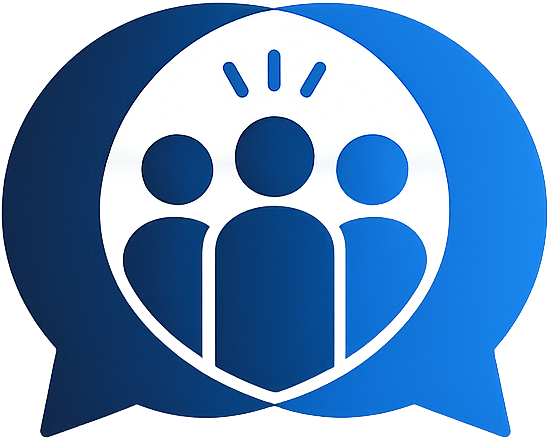
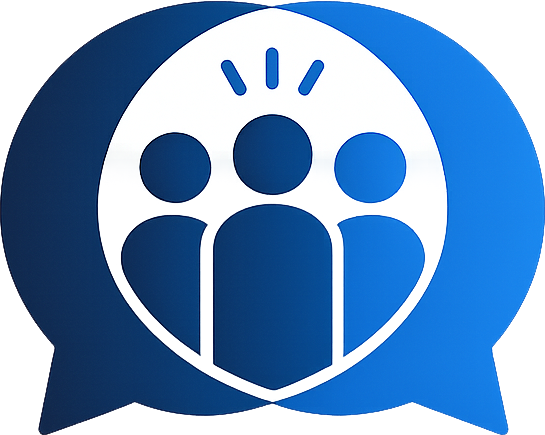
Update project

diff --git a/laravel/database/seeders/GroupSeeder.php b/laravel/database/seeders/GroupSeeder.php
@@ -1,0 +1,48 @@
+<?php
+
+namespace Database\Seeders;
+
+use Illuminate\Database\Seeder;
+use Illuminate\Support\Facades\DB;
+use App\Models\Group;
+use App\Models\User;
+
+class GroupSeeder extends Seeder
+{
+    public function run(): void
+    {
+        $lecturer = User::where('email', '[email redacted]')->first();
+        $student  = User::where('email', '[email redacted]')->first();
+
+        if (!$lecturer) {
+            $this->command->warn('Run AuthenticationSeeder first.');
+            return;
+        }
+
+        $groups = [
+            ['name' => 'CS101 — Intro to Programming',   'slug' => 'cs101-intro-programming',   'description' => 'First-year programming fundamentals.'],
+            ['name' => 'CS201 — Data Structures',         'slug' => 'cs201-data-structures',      'description' => 'Arrays, linked lists, trees and graphs.'],
+            ['name' => 'CS301 — Software Engineering',    'slug' => 'cs301-software-engineering', 'description' => 'SDLC, design patterns and agile methods.'],
+            ['name' => 'CS401 — Database Systems',        'slug' => 'cs401-database-systems',     'description' => 'Relational databases, SQL and NoSQL.'],
+        ];
+
+        foreach ($groups as $data) {
+            $group = Group::firstOrCreate(
+                ['slug' => $data['slug']],
+                array_merge($data, ['created_by' => $lecturer->id])
+            );
+
+            // Attach lecturer as admin member
+            if (!$group->members()->where('users.id', $lecturer->id)->exists()) {
+                $group->members()->attach($lecturer->id, ['role' => 'admin']);
+            }
+
+            // Attach student as member
+            if ($student && !$group->members()->where('users.id', $student->id)->exists()) {
+                $group->members()->attach($student->id, ['role' => 'member']);
+            }
+        }
+
+        $this->command->info('✅ Groups seeded: ' . count($groups) . ' groups created.');
+    }
+}

diff --git a/laravel/database/migrations/2026_07_10_000000_add_created_by_to_groups_table.php b/laravel/database/migrations/2026_07_10_000000_add_created_by_to_groups_table.php
@@ -1,0 +1,29 @@
+<?php
+
+use Illuminate\Database\Migrations\Migration;
+use Illuminate\Database\Schema\Blueprint;
+use Illuminate\Support\Facades\Schema;
+
+return new class extends Migration
+{
+    public function up(): void
+    {
+        if (!Schema::hasColumn('groups', 'created_by')) {
+            Schema::table('groups', function (Blueprint $table) {
+                $table->foreignId('created_by')->nullable()->constrained('users')->nullOnDelete();
+            });
+        }
+        if (!Schema::hasColumn('groups', 'is_private')) {
+            Schema::table('groups', function (Blueprint $table) {
+                $table->boolean('is_private')->default(false);
+            });
+        }
+    }
+
+    public function down(): void
+    {
+        Schema::table('groups', function (Blueprint $table) {
+            $table->dropColumn(['created_by', 'is_private']);
+        });
+    }
+};

diff --git a/laravel/database/seeders/DatabaseSeeder.php b/laravel/database/seeders/DatabaseSeeder.php
@@ -40,5 +40,6 @@ class DatabaseSeeder extends Seeder
             'password' => bcrypt('password123'),
             'role'     => 'administrator',
         ]);
+
     }
 }